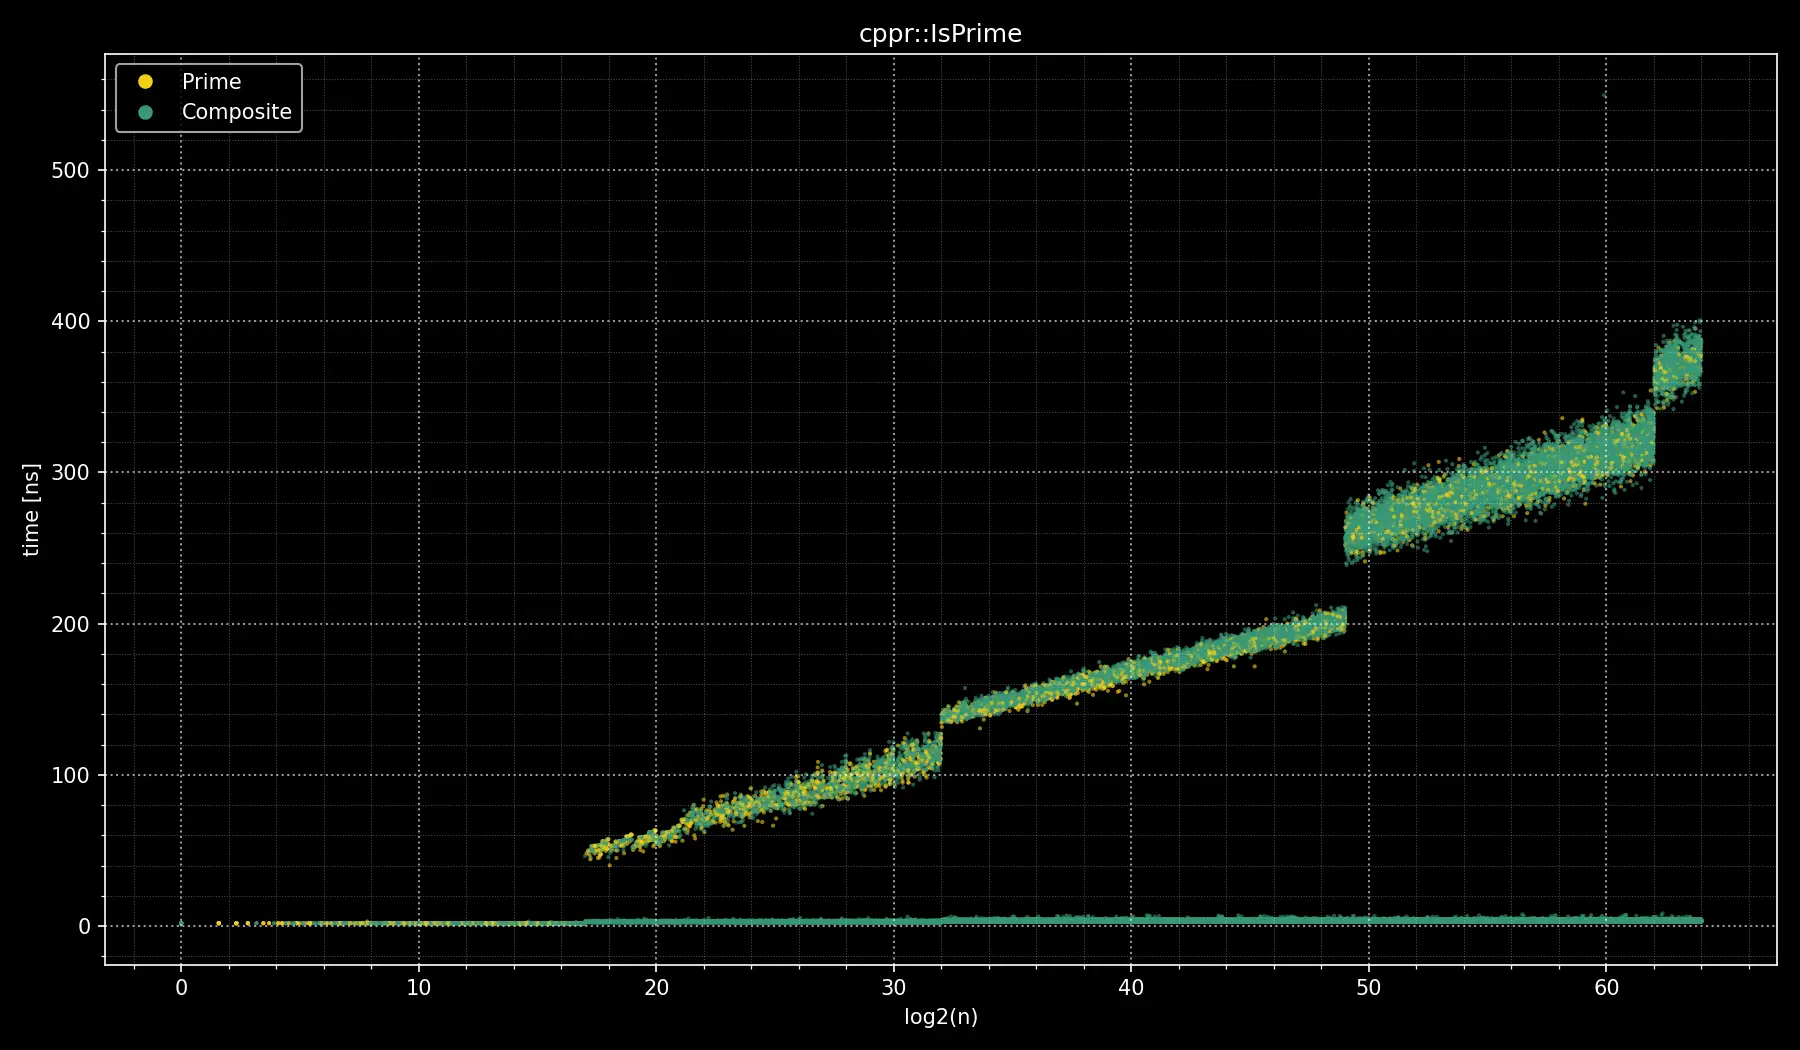
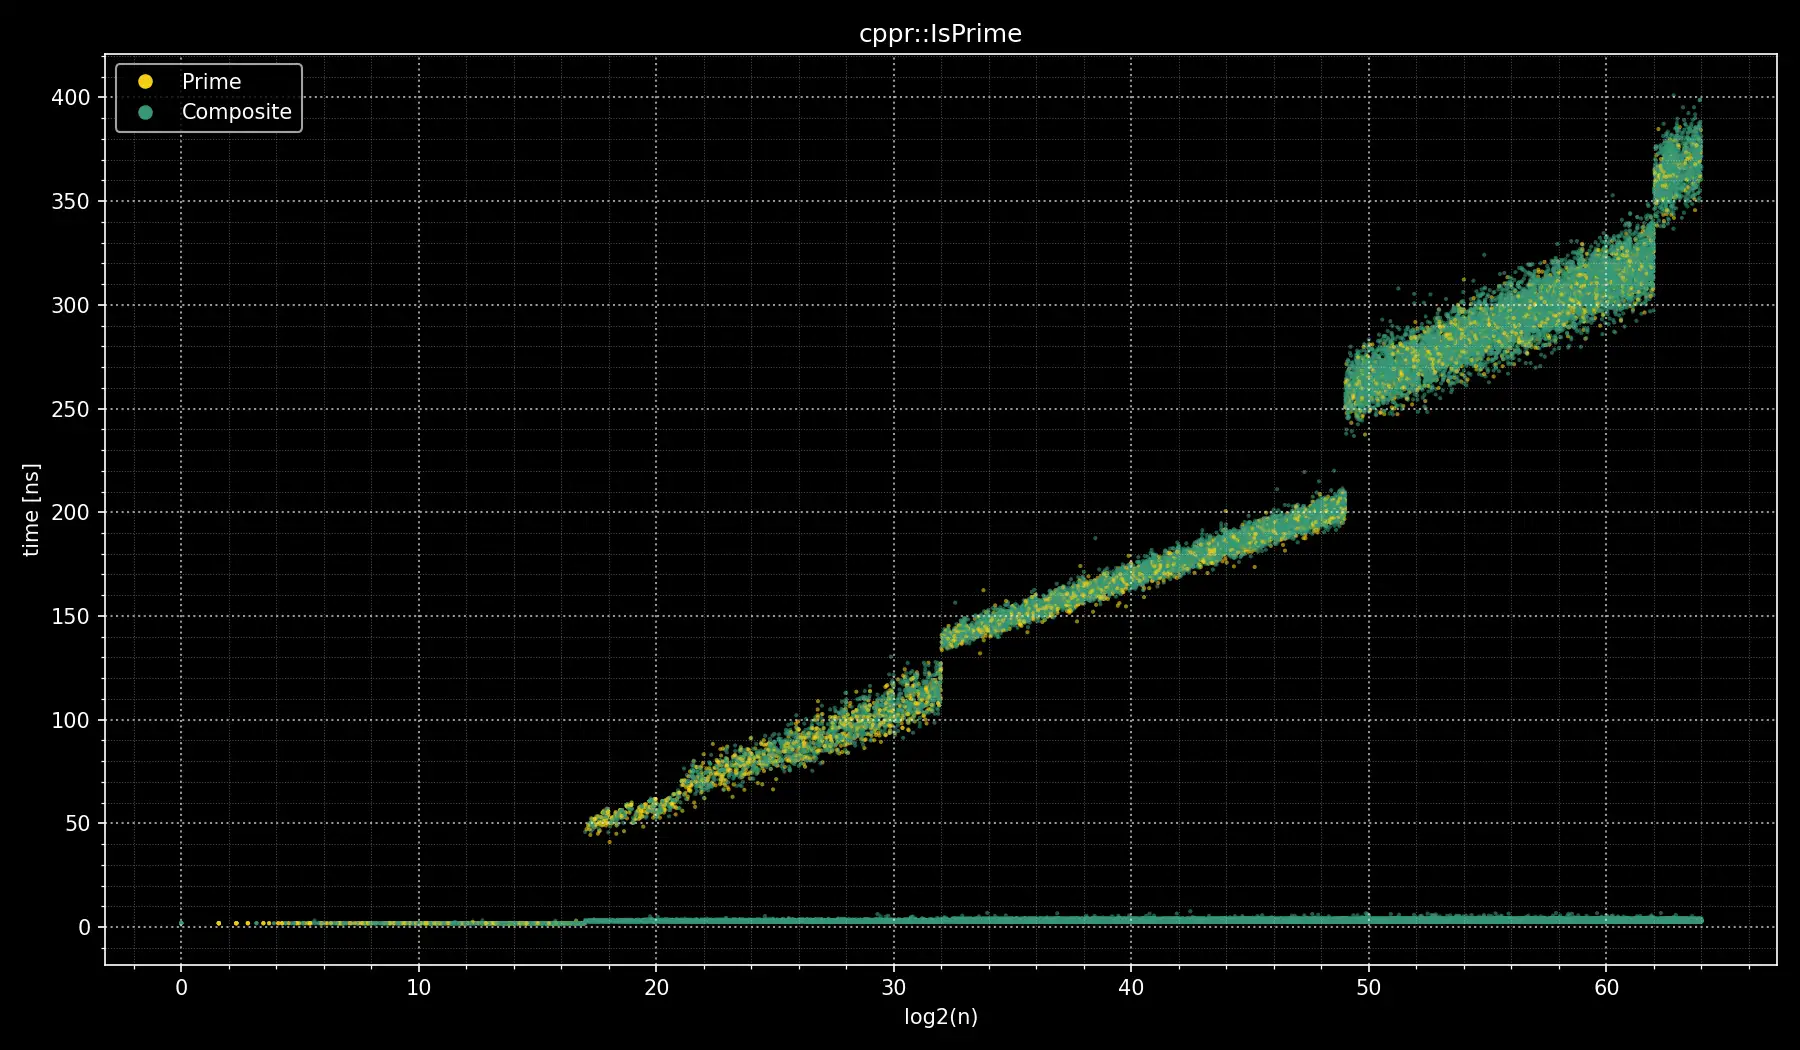
chore(bench): publish run 36137218261 2ca818b8a43ab46b2aa7ea9bfd26098f4f8df635

diff --git a/benchmarks/latest/benchmark-Windows-msvc/bench_summary.md b/benchmarks/latest/benchmark-Windows-msvc/bench_summary.md
@@ -2,19 +2,19 @@
 
 ## Overall summary
 
-- IsPrime averages 138.43 ns on prime inputs and 45.90 ns on composite inputs.
-- IsPrimeNoTable averages 266.32 ns on prime inputs and 47.12 ns on composite inputs.
+- IsPrime averages 155.47 ns on prime inputs and 51.18 ns on composite inputs.
+- IsPrimeNoTable averages 301.82 ns on prime inputs and 53.51 ns on composite inputs.
 
 ## Averages by 8-bit range (nanoseconds)
 
 | Bit range | IsPrime (prime) | IsPrimeNoTable (prime) | IsPrime (composite) | IsPrimeNoTable (composite) |
 |-----------|-----------------|------------------------|---------------------|----------------------------|
-| 1-8 | 2.18 | 1.71 | 1.70 | 1.76 |
-| 9-16 | 2.16 | 22.01 | 1.72 | 4.83 |
-| 17-24 | 55.28 | 61.94 | 14.44 | 16.06 |
-| 25-32 | 96.82 | 97.34 | 27.13 | 27.03 |
-| 33-40 | 162.52 | 246.21 | 51.79 | 66.23 |
-| 41-48 | 195.33 | 408.67 | 64.07 | 65.20 |
-| 49-56 | 265.97 | 569.01 | 89.30 | 89.68 |
-| 57-62 | 304.81 | 684.06 | 104.18 | 98.78 |
-| 63-64 | 326.08 | 710.21 | 111.38 | 82.88 |
+| 1-8 | 2.25 | 2.02 | 2.00 | 2.00 |
+| 9-16 | 2.25 | 23.07 | 2.01 | 5.17 |
+| 17-24 | 61.71 | 68.99 | 15.52 | 17.78 |
+| 25-32 | 109.13 | 109.47 | 29.97 | 30.31 |
+| 33-40 | 181.52 | 280.12 | 57.31 | 74.67 |
+| 41-48 | 218.16 | 473.83 | 70.97 | 75.98 |
+| 49-56 | 299.81 | 647.41 | 100.22 | 102.97 |
+| 57-62 | 344.55 | 765.13 | 117.20 | 110.86 |
+| 63-64 | 365.50 | 793.42 | 124.97 | 92.67 |

diff --git a/benchmarks/latest/benchmark-Linux-clang/bench_summary.md b/benchmarks/latest/benchmark-Linux-clang/bench_summary.md
@@ -2,19 +2,19 @@
 
 ## Overall summary
 
-- IsPrime averages 137.54 ns on prime inputs and 45.58 ns on composite inputs.
-- IsPrimeNoTable averages 250.91 ns on prime inputs and 42.91 ns on composite inputs.
+- IsPrime averages 137.22 ns on prime inputs and 45.36 ns on composite inputs.
+- IsPrimeNoTable averages 248.75 ns on prime inputs and 42.87 ns on composite inputs.
 
 ## Averages by 8-bit range (nanoseconds)
 
 | Bit range | IsPrime (prime) | IsPrimeNoTable (prime) | IsPrime (composite) | IsPrimeNoTable (composite) |
 |-----------|-----------------|------------------------|---------------------|----------------------------|
-| 1-8 | 1.91 | 3.18 | 1.90 | 3.17 |
-| 9-16 | 1.90 | 21.49 | 1.90 | 5.22 |
-| 17-24 | 55.98 | 63.96 | 14.18 | 16.62 |
-| 25-32 | 96.64 | 97.40 | 26.54 | 27.11 |
-| 33-40 | 153.02 | 236.53 | 48.86 | 64.45 |
-| 41-48 | 183.39 | 394.27 | 60.18 | 65.89 |
-| 49-56 | 267.04 | 517.31 | 89.62 | 72.99 |
-| 57-62 | 308.00 | 607.94 | 105.33 | 73.69 |
-| 63-64 | 369.93 | 744.92 | 126.08 | 90.47 |
+| 1-8 | 1.90 | 3.23 | 1.91 | 3.23 |
+| 9-16 | 1.90 | 21.37 | 1.90 | 5.54 |
+| 17-24 | 55.68 | 63.89 | 14.18 | 16.95 |
+| 25-32 | 96.67 | 97.39 | 26.64 | 27.40 |
+| 33-40 | 153.44 | 235.30 | 48.67 | 64.34 |
+| 41-48 | 183.70 | 390.41 | 59.99 | 65.30 |
+| 49-56 | 266.11 | 511.81 | 89.12 | 72.50 |
+| 57-62 | 306.87 | 600.43 | 104.76 | 73.44 |
+| 63-64 | 365.16 | 742.39 | 124.15 | 90.72 |

diff --git a/benchmarks/latest/benchmark-Linux-gcc/bench_summary.md b/benchmarks/latest/benchmark-Linux-gcc/bench_summary.md
@@ -2,19 +2,19 @@
 
 ## Overall summary
 
-- IsPrime averages 137.54 ns on prime inputs and 45.57 ns on composite inputs.
-- IsPrimeNoTable averages 250.86 ns on prime inputs and 42.70 ns on composite inputs.
+- IsPrime averages 137.22 ns on prime inputs and 45.37 ns on composite inputs.
+- IsPrimeNoTable averages 248.65 ns on prime inputs and 42.45 ns on composite inputs.
 
 ## Averages by 8-bit range (nanoseconds)
 
 | Bit range | IsPrime (prime) | IsPrimeNoTable (prime) | IsPrime (composite) | IsPrimeNoTable (composite) |
 |-----------|-----------------|------------------------|---------------------|----------------------------|
-| 1-8 | 1.90 | 2.92 | 1.90 | 2.92 |
-| 9-16 | 1.90 | 21.32 | 1.90 | 4.99 |
-| 17-24 | 55.99 | 63.96 | 14.18 | 16.43 |
-| 25-32 | 96.66 | 97.40 | 26.54 | 26.94 |
-| 33-40 | 153.03 | 236.57 | 48.85 | 64.24 |
-| 41-48 | 183.41 | 394.21 | 60.17 | 65.69 |
-| 49-56 | 267.03 | 517.29 | 89.61 | 72.80 |
-| 57-62 | 307.95 | 607.92 | 105.29 | 73.49 |
-| 63-64 | 370.10 | 745.04 | 126.06 | 90.29 |
+| 1-8 | 1.90 | 2.92 | 1.90 | 2.93 |
+| 9-16 | 1.90 | 21.30 | 1.90 | 5.11 |
+| 17-24 | 55.64 | 63.90 | 14.19 | 16.55 |
+| 25-32 | 96.66 | 97.40 | 26.65 | 27.04 |
+| 33-40 | 153.37 | 235.30 | 48.67 | 63.88 |
+| 41-48 | 183.72 | 390.31 | 59.99 | 64.84 |
+| 49-56 | 266.08 | 511.83 | 89.13 | 72.05 |
+| 57-62 | 307.02 | 600.41 | 104.77 | 72.99 |
+| 63-64 | 365.10 | 740.87 | 124.18 | 90.28 |

diff --git a/benchmarks/latest/benchmark-Windows-clang-cl/bench_summary.md b/benchmarks/latest/benchmark-Windows-clang-cl/bench_summary.md
@@ -2,19 +2,19 @@
 
 ## Overall summary
 
-- IsPrime averages 147.27 ns on prime inputs and 48.90 ns on composite inputs.
-- IsPrimeNoTable averages 258.03 ns on prime inputs and 44.45 ns on composite inputs.
+- IsPrime averages 147.12 ns on prime inputs and 48.98 ns on composite inputs.
+- IsPrimeNoTable averages 258.25 ns on prime inputs and 44.77 ns on composite inputs.
 
 ## Averages by 8-bit range (nanoseconds)
 
 | Bit range | IsPrime (prime) | IsPrimeNoTable (prime) | IsPrime (composite) | IsPrimeNoTable (composite) |
 |-----------|-----------------|------------------------|---------------------|----------------------------|
-| 1-8 | 3.03 | 2.82 | 3.05 | 2.83 |
-| 9-16 | 3.08 | 21.08 | 3.07 | 4.97 |
-| 17-24 | 56.74 | 62.54 | 14.70 | 16.13 |
-| 25-32 | 98.14 | 98.81 | 27.12 | 27.32 |
-| 33-40 | 169.72 | 249.61 | 53.78 | 67.41 |
-| 41-48 | 203.94 | 421.55 | 66.57 | 70.59 |
-| 49-56 | 288.02 | 535.08 | 96.32 | 76.95 |
-| 57-62 | 331.10 | 611.95 | 112.96 | 75.33 |
-| 63-64 | 356.41 | 727.38 | 121.63 | 89.90 |
+| 1-8 | 3.09 | 2.94 | 3.03 | 2.98 |
+| 9-16 | 3.08 | 21.11 | 3.08 | 5.25 |
+| 17-24 | 56.77 | 62.48 | 14.79 | 16.45 |
+| 25-32 | 97.66 | 98.75 | 27.25 | 27.57 |
+| 33-40 | 169.49 | 249.92 | 53.84 | 67.72 |
+| 41-48 | 203.65 | 421.77 | 66.62 | 70.93 |
+| 49-56 | 287.83 | 535.06 | 96.41 | 77.38 |
+| 57-62 | 330.94 | 612.47 | 113.12 | 75.86 |
+| 63-64 | 356.62 | 730.86 | 121.83 | 90.22 |
